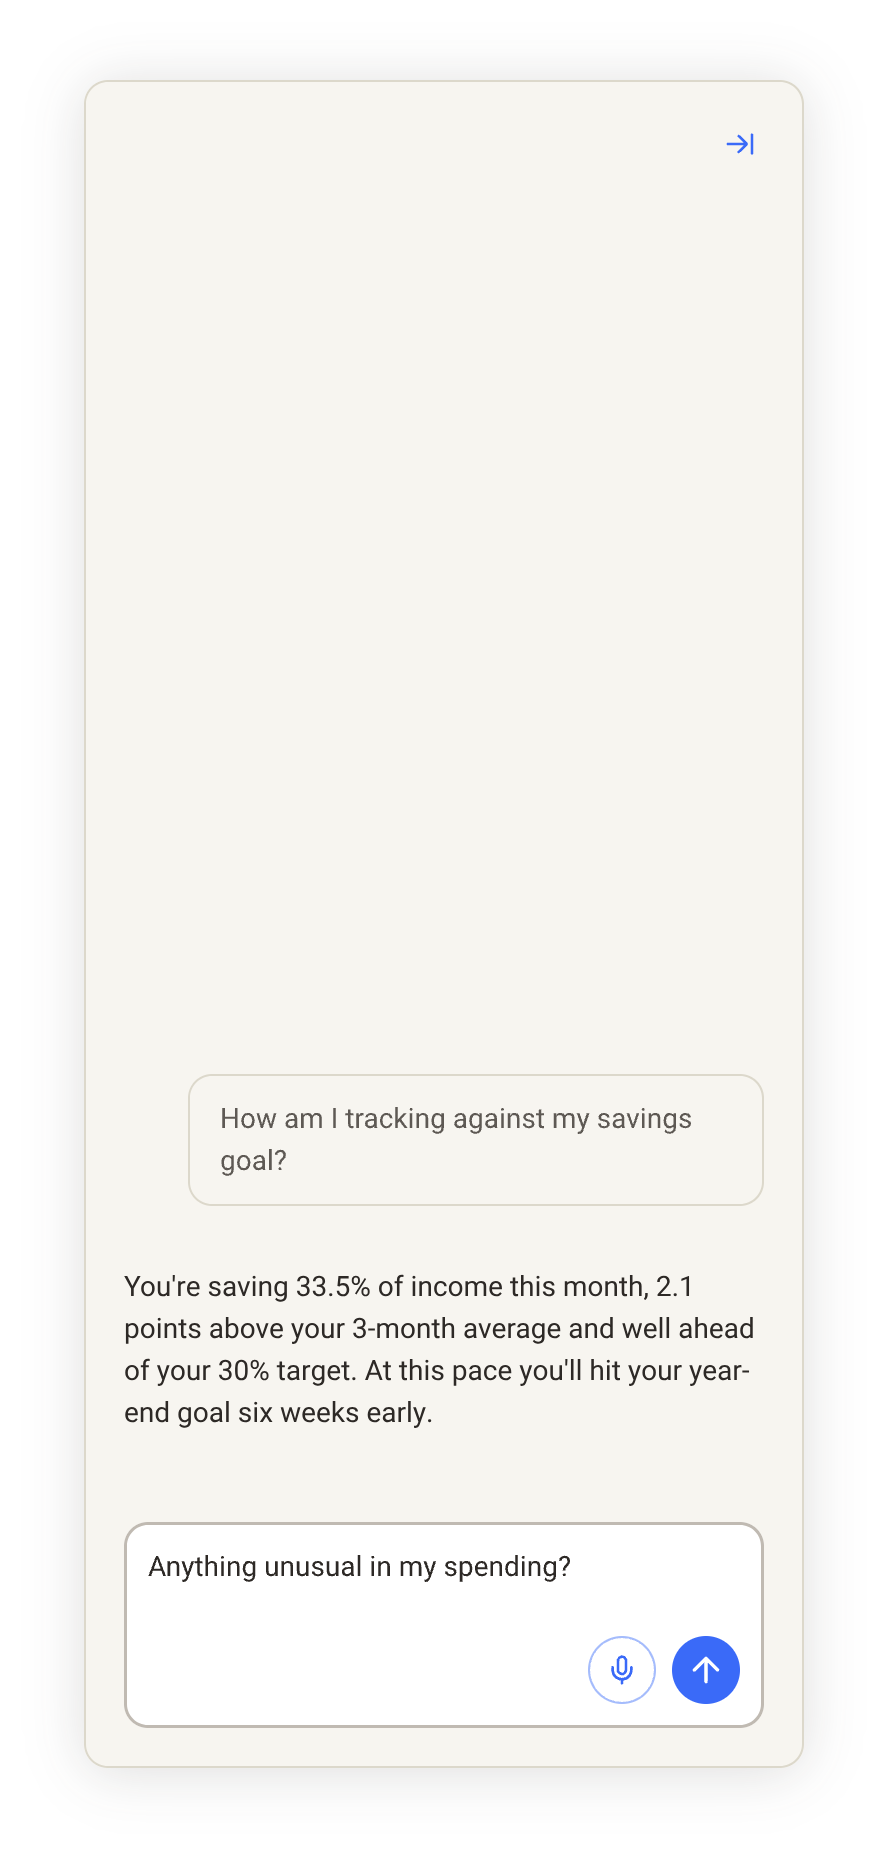
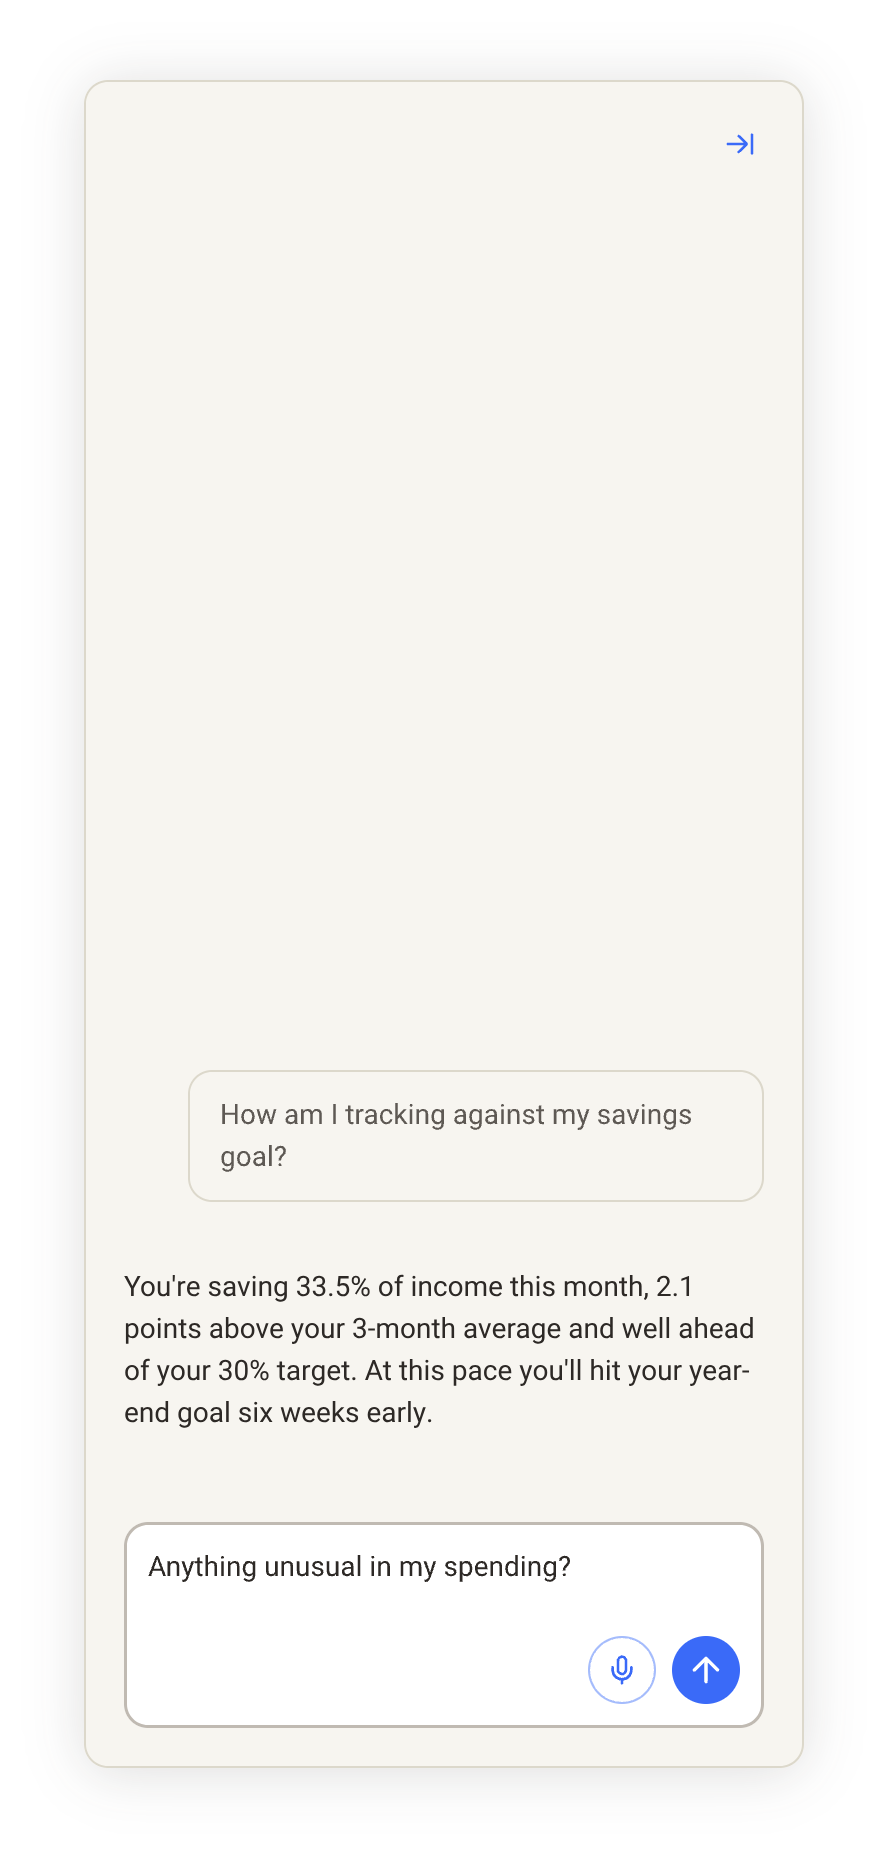
Pixel-align overlay chip with baked chip and fix 2px bubble shift in transcribed panel (gap 14->16)

Changed region(s): [[0.3953, 0.5938, 0.7905, 0.625], [0.2432, 0.5938, 0.3649, 0.6562]]

diff --git a/pencil/designs/4-approved/chat-prototype-with-voice/index.html b/pencil/designs/4-approved/chat-prototype-with-voice/index.html
@@ -175,8 +175,8 @@
       .chip-zone {
         position: absolute;
         left: 62px;   /* 42 + 20 */
-        top: 391px;   /* 42 + 349 */
-        width: 320px;
+        top: 389px;   /* measured: baked chip top is 395; 389 + (54-42)/2 = 395 */
+        width: 321px; /* center at 222.5 to match the baked chip */
         height: 54px;
         background: var(--panel-bg);
         display: flex;
@@ -189,10 +189,12 @@
         background: var(--panel-bg);
         border: 1px solid var(--panel-border);
         border-radius: 24px;
-        padding: 12px 16px;
+        /* exactly 42px tall like the baked chip: fixed height,
+           horizontal padding only, text vertically centered */
+        padding: 0 16px;
         cursor: pointer;
         overflow: hidden;
-        min-height: 42px;
+        height: 42px;
         width: max-content;
         max-width: 100%;
         display: flex;
@@ -237,9 +239,9 @@
       .typed-line {
         position: absolute;
         left: 74px;   /* 42 + 32 */
-        top: 773px;   /* 42 + 731 */
+        top: 775px;   /* 42 + 733, matches the baked input text */
         width: 296px;
-        height: 44px;
+        height: 42px;
         background: #ffffff;
         display: none;
         font-size: 14px;
